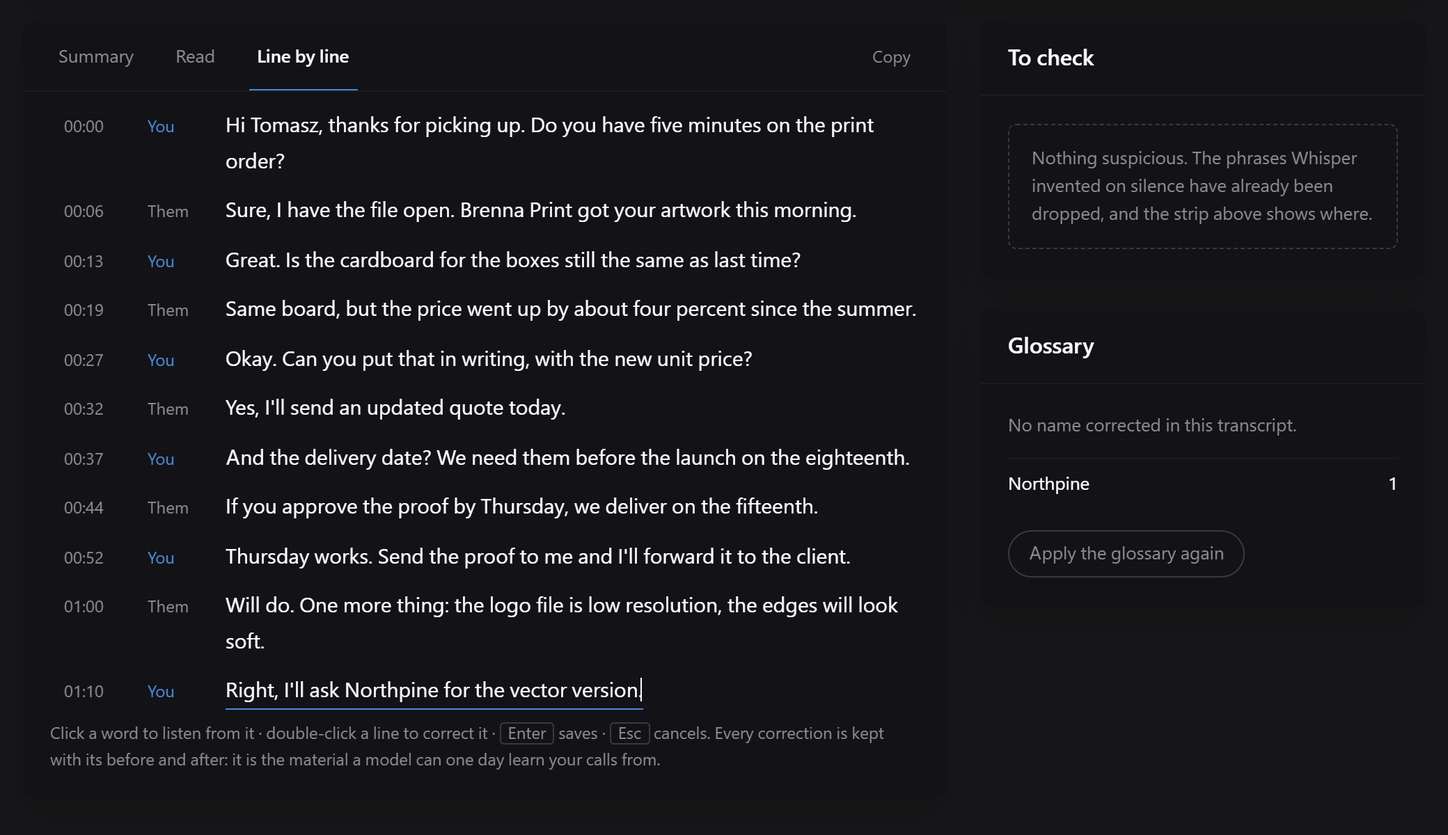
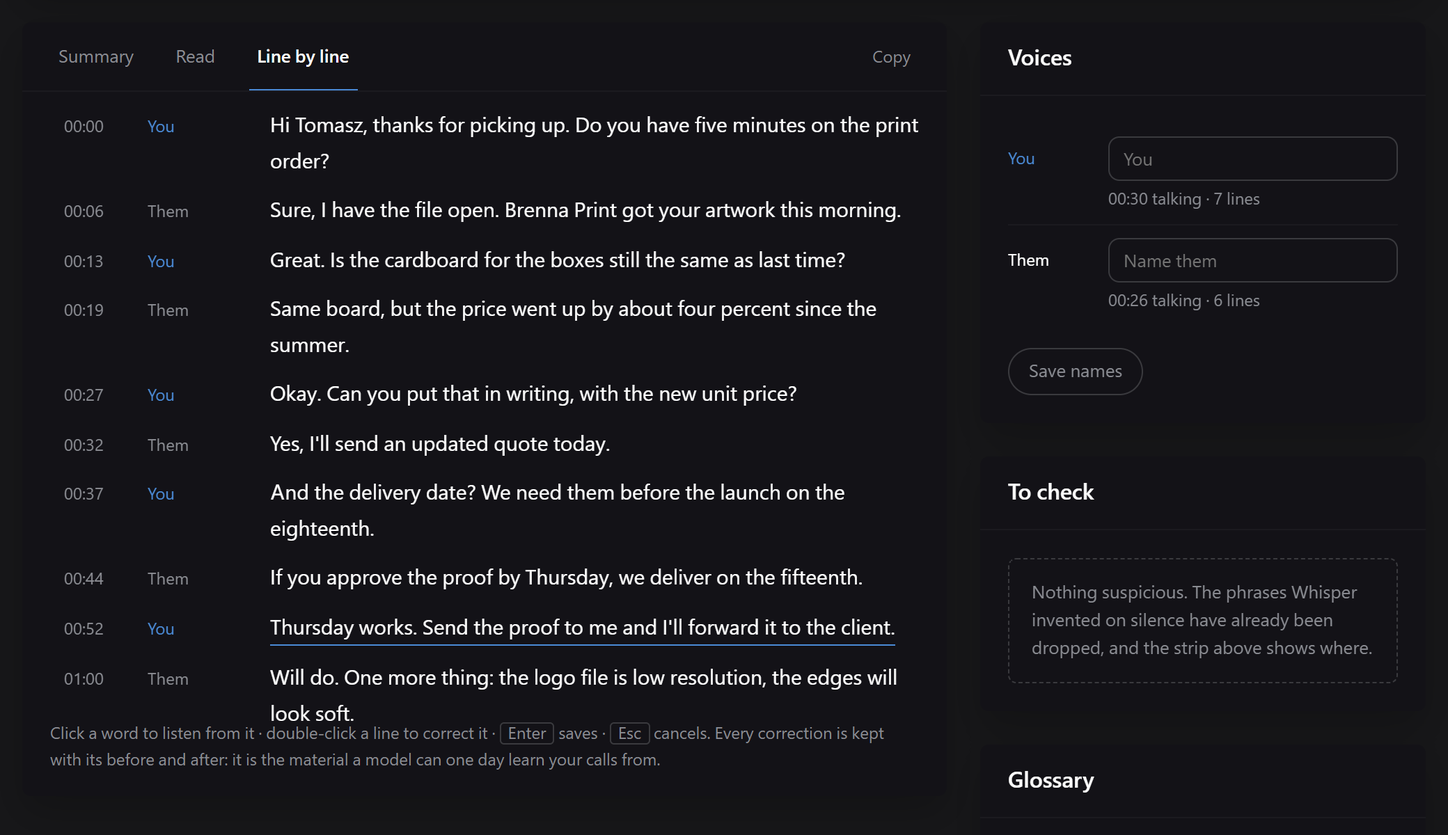
Clearer choices before transcribing, and the Voices panel first
The home screen had two small checkboxes in a corner, explained only in a
tooltip, and it wasn't clear they also applied to recording. They're now
a "Before you start" panel above files and recording: language, Separate
voices and Precise word timings, each with a switch and a line saying
what it does.

On a call, separating the voices of a call already transcribed sat at the
bottom of the right column, out of view. The Voices panel now comes
first, with a Separate voices button (the same name as the option,
instead of "Tell the voices apart"), how long it will take, and a
progress bar while it listens.

The README screenshots and the demo GIF are redone on the new layout.

diff --git a/app/index.html b/app/index.html
@@ -161,10 +161,31 @@
     stroke-linecap:round;stroke-linejoin:round}
   select.secondary{background:var(--surface);padding:0 12px}
   select.secondary option{background:var(--surface);color:var(--text)}
-  .toggle{display:flex;align-items:center;gap:8px;color:var(--muted);font-size:var(--fs-small);
-    cursor:pointer;height:var(--control-h);white-space:nowrap}
-  .toggle input{accent-color:var(--accent);width:15px;height:15px;margin:0}
-  .toggle:hover{color:var(--text)}
+  /* The choices made before transcribing: one tile each, with what it does
+     written on it. A bare checkbox with its explanation in a tooltip is a
+     choice nobody understands, and nobody hovers to find out. */
+  .options{display:grid;grid-template-columns:repeat(auto-fit,minmax(220px,1fr));gap:12px}
+  .option{display:flex;gap:14px;align-items:flex-start;padding:14px 16px;border-radius:8px;
+    background:var(--raised);border:1px solid transparent;cursor:pointer;min-width:0}
+  .option:hover{border-color:var(--control)}
+  .option.on{border-color:var(--accent)}
+  .option div{min-width:0;flex:1}
+  .option b{display:block;font-weight:500;font-size:14px;margin-bottom:3px}
+  .option small{display:block;color:var(--muted);font-size:var(--fs-small);line-height:1.5}
+  .option.language{cursor:default}
+  .option.language:hover{border-color:transparent}
+  .option select{width:100%;margin-top:8px}
+  .switch{appearance:none;-webkit-appearance:none;flex:none;width:34px;height:20px;margin:1px 0 0;
+    border-radius:999px;background:var(--control);position:relative;cursor:pointer;
+    transition:background .15s}
+  .switch::after{content:"";position:absolute;top:3px;left:3px;width:14px;height:14px;
+    border-radius:50%;background:var(--text);transition:transform .15s}
+  .switch:checked{background:var(--accent)}
+  .switch:checked::after{transform:translateX(14px)}
+  .switch:focus-visible{outline:2px solid var(--accent);outline-offset:2px}
+  .voices-cta .primary{margin-top:14px}
+  .voices-cta .bar{margin-top:14px}
+  .voices-cta .rec-note{margin-top:8px}
   .text-button{color:var(--muted);text-decoration:none}
   .text-button:hover{color:var(--text)}
   .text-button.danger:hover{color:var(--negative)}
@@ -428,6 +449,7 @@
 
   @media (prefers-reduced-motion:reduce){
     .bar.indeterminate i{animation:none;width:100%;opacity:.35}
+    .switch,.switch::after{transition:none}
     .bar i,.meter .track i{transition:none}
     .sidebar{transition:none}
     .live .dot{animation:none}
@@ -535,7 +557,11 @@ async function checkEngine(){
     voicesAvail = !!d.voices;
     voicesReady = !!d.voices_ready;
     const vt = $('#voices-toggle');
-    if (vt) vt.hidden = !voicesAvail;
+    if (vt){
+      vt.hidden = !voicesAvail;
+      if (voicesReady) vt.querySelector('small').textContent = vt.querySelector('small')
+        .textContent.replace('; the first time it downloads 32 MB.', '.');
+    }
     if (d.error){ light.className = 'light no'; t.textContent = d.error; return; }
     // Started with --no-model: reading old calls, nothing to transcribe with.
     if (d.off){
@@ -690,36 +716,55 @@ function languagePicker(){
   return s;
 }
 
-// Precise word timings cost twice the time (measured: 395 s instead of 200
-// on a 27-minute call), so they are a choice, remembered, and never a default.
-function preciseToggle(){
-  const l = el('label', 'toggle');
-  l.title = 'Every word lands exactly where it was said, so a click plays from that word. '
-    + 'Takes about twice as long: 27 minutes in about 7 instead of 4.';
-  const c = el('input');
+// One tile per choice, with what it does written on it. Remembered, and the
+// same for dropped files and for a recording.
+function optionTile(id, title, text, key){
+  const l = el('label', 'option');
+  l.id = id;
+  const c = el('input', 'switch');
   c.type = 'checkbox';
-  c.checked = precise();
-  c.onchange = () => store.set('sottovoce-precise', c.checked ? '1' : '0');
-  l.append(c, 'Precise word timings');
+  c.setAttribute('role', 'switch');
+  c.checked = store.get(key) === '1';
+  const t = el('div');
+  t.innerHTML = '<b>' + esc(title) + '</b><small>' + esc(text) + '</small>';
+  const mark = () => l.classList.toggle('on', c.checked);
+  c.onchange = () => { store.set(key, c.checked ? '1' : '0'); mark(); };
+  mark();
+  l.append(c, t);
   return l;
 }
 
-// Telling voices apart runs on the processor, about two seconds a minute of
-// audio, and is off unless asked: on a call with two people recorded here,
-// the two tracks already say who is who.
-function voicesToggle(){
-  const l = el('label', 'toggle');
-  l.id = 'voices-toggle';
-  l.hidden = !voicesAvail;
-  l.title = 'Marks who is speaking on every line, by the sound of their voice: '
-    + 'Voice 1, Voice 2… Name them afterwards. Adds about 2 seconds per minute of audio'
-    + (voicesReady ? '.' : '; the first time it downloads two small models (32 MB).');
-  const c = el('input');
-  c.type = 'checkbox';
-  c.checked = store.get('sottovoce-voices') === '1';
-  c.onchange = () => store.set('sottovoce-voices', c.checked ? '1' : '0');
-  l.append(c, 'Separate voices');
-  return l;
+function optionsPanel(){
+  const p = panel('Before you start');
+  const r = el('div', 'right');
+  r.textContent = 'for files and recordings · remembered';
+  p.querySelector('header').append(r);
+  const c = el('div', 'content options');
+
+  const lang = el('div', 'option language');
+  const lt = el('div');
+  lt.innerHTML = '<b>Language</b><small>Leave it on detect, or choose it if the call opens in silence or mixes languages.</small>';
+  lt.append(languagePicker());
+  lang.append(lt);
+
+  // Telling voices apart runs on the processor and is off unless asked: on a
+  // call recorded here with one other person, the two tracks already say who
+  // is who.
+  const v = optionTile('voices-toggle', 'Separate voices',
+    'Every line says who is speaking: Voice 1, Voice 2… Name them afterwards. '
+    + 'About 2 seconds more per minute'
+    + (voicesReady ? '.' : '; the first time it downloads 32 MB.'), 'sottovoce-voices');
+  v.hidden = !voicesAvail;
+
+  // Precise word timings cost twice the time (measured: 395 s instead of 200
+  // on a 27-minute call), so they are a choice, remembered, never a default.
+  const pr = optionTile('precise-toggle', 'Precise word timings',
+    'A click on a word plays from exactly that word. Takes about twice as long: '
+    + '27 minutes in 7 instead of 4.', 'sottovoce-precise');
+
+  c.append(lang, v, pr);
+  p.append(c);
+  return p;
 }
 
 function crumbs(here){
@@ -761,10 +806,9 @@ function showHome(){
   fd.textContent = 'Drop recordings you already have, or record a call as it happens. '
     + 'Everything is transcribed on this machine.';
   left.append(h1, fd);
-  const act = el('div', 'actions');
-  act.append(voicesToggle(), preciseToggle(), languagePicker());
-  tr.append(left, act);
+  tr.append(left);
   d.append(tr);
+  d.append(optionsPanel());
 
   const unfinished = el('div');
   unfinished.id = 'home-unfinished';
@@ -855,7 +899,8 @@ function drawRecordIdle(c){
   foot.append(b);
   const note = el('p', 'rec-note');
   note.textContent = 'Your microphone and the call are saved on two separate tracks, so '
-    + 'the transcript says who spoke. Use headphones, and tell the others you are recording.';
+    + 'the transcript says You and Them. With Separate voices on, the people on the call '
+    + 'are told apart too. Use headphones, and tell the others you are recording.';
   c.append(ol, f, foot, note);
 }
 
@@ -1573,30 +1618,62 @@ function voicesPanel(l){
   }
   // Calls transcribed without it: the voices can be told apart now, from the
   // recording in the folder, without transcribing again.
-  if (voicesAvail && l.audio && !speakers.some(x => x.tag.startsWith('Voice '))){
+  const split = speakers.some(x => x.tag.startsWith('Voice '));
+  if (voicesAvail && l.audio && !split){
+    const box = el('div', 'voices-cta');
     const v = el('p', 'note');
-    v.textContent = l.speakers_found === 1
-      ? 'Only one voice was heard' + (l.two_tracks ? ' on the call.' : ' in this call.')
-      : l.two_tracks ? 'Several people on the call? They can be told apart by their voice.'
-                     : 'Who is speaking is not marked in this call.';
-    const b = el('button', 'secondary foot-action');
-    b.type = 'button';
-    b.textContent = 'Tell the voices apart';
-    b.onclick = async () => {
-      b.disabled = true;
-      // About two seconds a minute, measured; said, so a minute of waiting
-      // does not look like a page that hung.
-      b.textContent = 'listening… about ' + mmss(Math.max(5, l.duration / 30));
-      try{
-        const r = await (await fetch('/api/voices/' + encodeURIComponent(l.folder), {method:'POST'})).json();
-        if (r.error) throw new Error(r.error);
-        voicesReady = true;
-        if (!r.changed){ b.textContent = 'Only one voice heard'; return; }
-        await loadCalls();
-        openCall(l.folder);
-      } catch(err){ b.textContent = err.message; }
-    };
-    c.append(v, b);
+    // About 2.5 seconds a minute of audio, measured; said up front, so a
+    // minute of waiting does not look like a page that hung.
+    const secs = Math.max(5, Math.round(l.duration / 24));
+    const wait = secs < 60 ? Math.ceil(secs / 5) * 5 + ' seconds'
+                           : plural(Math.round(secs / 60), 'minute', 'minutes');
+    if (l.speakers_found === 1){
+      v.textContent = l.two_tracks ? 'Only one voice was heard on the call side.'
+                                   : 'Only one voice was heard in this call.';
+      box.append(v);
+    } else {
+      v.textContent = l.two_tracks
+        ? 'More than one person on the call? Separate their voices to tell them apart, '
+          + 'instead of one Them.'
+        : 'Who is speaking is not marked yet. Separate the voices to see Voice 1, Voice 2… '
+          + 'on every line, then give them names.';
+      const b = el('button', speakers.length ? 'secondary' : 'primary');
+      b.type = 'button';
+      b.textContent = 'Separate voices';
+      const hint = el('p', 'rec-note');
+      hint.textContent = 'Listens to the recording again, without transcribing it again: about '
+        + wait + (voicesReady ? '.' : ', plus a 32 MB download the first time.');
+      b.onclick = async () => {
+        b.disabled = true;
+        b.textContent = 'Listening for voices…';
+        const bar = el('div', 'bar indeterminate');
+        bar.append(el('i'));
+        b.after(bar);
+        try{
+          const r = await (await fetch('/api/voices/' + encodeURIComponent(l.folder), {method:'POST'})).json();
+          if (r.error) throw new Error(r.error);
+          voicesReady = true;
+          bar.remove();
+          if (!r.changed){
+            b.remove();
+            hint.remove();
+            v.textContent = 'Only one voice was heard' + (l.two_tracks ? ' on the call side' : '')
+              + ', so nothing changed.';
+            return;
+          }
+          await loadCalls();
+          openCall(l.folder);
+        } catch(err){
+          bar.remove();
+          b.disabled = false;
+          b.textContent = 'Separate voices';
+          hint.textContent = err.message;
+          hint.classList.add('error');
+        }
+      };
+      box.append(v, b, hint);
+    }
+    c.append(box);
   }
   if (!c.children.length) return null;
   p.append(c);
@@ -1605,8 +1682,10 @@ function voicesPanel(l){
 
 function sidePanel(l, st){
   const col = el('div', 'side');
+  // Who is speaking comes first: it changes how everything below is read,
+  // and the action that marks it must be seen without scrolling.
   const vp = voicesPanel(l);
-  if (vp && (l.speakers || []).length) col.append(vp);
+  if (vp) col.append(vp);
 
   const p = panel('To check');
   const n = (l.suspicious || []).length;
@@ -1692,7 +1771,6 @@ function sidePanel(l, st){
   gc.append(b);
   g.append(gc);
   col.append(g);
-  if (vp && !(l.speakers || []).length) col.append(vp);
   return col;
 }
 

diff --git a/tests/test_page.py b/tests/test_page.py
@@ -70,6 +70,21 @@ def open_call(p, name):
     p.wait_for_selector(".reader")
 
 
+def test_the_choices_before_transcribing_are_explained_and_remembered(page):
+    tiles = page.locator(".options .option")
+    assert tiles.count() == 3
+    assert "Voice 1" in page.locator("#voices-toggle").inner_text()
+    page.locator("#precise-toggle").click()
+    assert "on" in page.locator("#precise-toggle").get_attribute("class")
+    page.reload()
+    assert page.locator("#precise-toggle input").is_checked()
+
+
+def test_the_voices_panel_comes_first_on_a_call(page):
+    open_call(page, NORTHPINE)
+    assert page.locator(".side .panel h2").first.inner_text() == "Voices"
+
+
 def test_the_page_opens_on_a_new_transcription_not_on_a_call(page):
     assert page.locator("h1").inner_text() == "New transcription"
     assert page.locator("#drop").is_visible()

diff --git a/README.it.md b/README.it.md
@@ -10,7 +10,7 @@
 
 Creato da [TouchSite Software](https://www.touchsitesoftware.it).
 
-![Ventiquattro secondi di Sottovoce su call inventate: la schermata iniziale e l'interruttore Separate voices, il riassunto di una call, un clic sulla striscia della call che porta a quel punto del testo, la vista riga per riga con tre voci in tre colori, i nomi Maya, Daniel e Priya dati nel pannello Voices, le righe che ora mostrano i nomi, una call registrata su due tracce con You e Them, e il ritorno all'inizio](docs/images/demo.gif)
+![Ventiquattro secondi di Sottovoce su call inventate: l'interruttore Separate voices acceso nella schermata iniziale, il riassunto di una call, un clic sulla striscia della call che porta a quel punto del testo, la vista riga per riga con tre voci in tre colori, i nomi Maya, Daniel e Priya dati nel pannello Voices, le righe che ora mostrano i nomi, una call registrata su due tracce con You e Them, e il ritorno all'inizio](docs/images/demo.gif)
 <sub>Call inventate, prese da `examples/`: in queste immagini non c'è nessun dato reale di clienti. La GIF è fatta con `--no-model`: per questo la trascrizione risulta spenta.</sub>
 
 > L'interfaccia è in inglese. La trascrizione e il riassunto seguono la lingua della call: un file in italiano esce in italiano.
@@ -43,7 +43,7 @@ Sottovoce risolve i primi due, e per il terzo ti mostra dove guardare.
 - **Riassunti col tuo LLM.** Se è acceso LM Studio, Ollama o llama-server ottieni *Deciso / Da fare / Aperto*, nella lingua della call. Se non c'è nessuno acceso, il bottone semplicemente non compare.
 - **Niente esce dalla macchina, e niente è nascosto.** Il server ascolta solo su `127.0.0.1`. La pagina non carica niente da internet, nemmeno il carattere. Ogni call è una cartella di file normali: niente database, niente account, niente telemetria.
 
-![La correzione a mano di una riga nella vista riga per riga, accanto alle frasi da controllare e ai nomi trovati nella call](docs/images/correcting.png)
+![La correzione a mano di una riga nella vista riga per riga di una call su due tracce, con You e Them su ogni riga, accanto al pannello Voices dove si possono nominare e alle frasi da controllare](docs/images/correcting.png)
 
 ## Avvio rapido (Windows)
 
@@ -58,9 +58,9 @@ Start.bat
 
 `Install.bat` crea l'ambiente virtuale e installa PyTorch con CUDA **prima** di tutto il resto (vedi [la trappola di PyTorch](#la-trappola-di-pytorch)), e alla fine ti dice se vede la GPU. `Start.bat` apre <http://127.0.0.1:8200>. Al primo avvio scarica il modello (2,9 GB, una volta sola) e lo carica nella VRAM in una ventina di secondi.
 
-![La schermata New transcription: a sinistra si trascinano i file, a destra si registra una call, sotto le ultime call](docs/images/home.png)
+![La schermata New transcription: in alto le scelte che valgono per tutto (lingua, Separate voices, Precise word timings), a sinistra si trascinano i file, a destra si registra una call, sotto le ultime call](docs/images/home.png)
 
-La pagina si apre su **New transcription**: a sinistra trascini uno o più file, a destra registri una call. 27 minuti di call richiedono circa 4 minuti. La lingua viene riconosciuta, oppure la scegli dal menu, e la scelta viene ricordata. Il server si spegne col bottone di accensione, oppure con `Stop.bat`.
+La pagina si apre su **New transcription**: a sinistra trascini uno o più file, a destra registri una call. 27 minuti di call richiedono circa 4 minuti. Sopra a tutti e due, **Before you start** raccoglie le tre scelte che valgono per entrambi: la lingua (riconosciuta, o scelta dal menu), **Separate voices** e **Precise word timings**, ognuna con una riga che dice cosa fa. Vengono ricordate. Il server si spegne col bottone di accensione, oppure con `Stop.bat`.
 
 **Linux e macOS:** `./install.sh`, poi `./start.sh`. Fanno quello che fanno i lanciatori per Windows: prima PyTorch, dall'indice CUDA su Linux se c'è `nvidia-smi`, poi il resto, e alla fine ti dicono se la GPU si vede. `./start.sh` passa i suoi argomenti al server, quindi `./start.sh --no-model` funziona. Su GitHub vengono controllati a ogni push, la sintassi e `shellcheck`, ma lì non vengono eseguiti davvero: l'installazione scarica gigabyte e richiede una GPU. Se li provi su una macchina pulita, facci sapere com'è andata (vedi i [prossimi passi](ROADMAP.md)). Se non funzionano, questi sono i passi che fanno:
 
@@ -97,7 +97,7 @@ In **New transcription** dai un nome alla call e premi **Start recording**. Il b
 
 ## Separare le voci
 
-In una call con più persone, spunta **Separate voices** prima di trascrivere, oppure apri una call già trascritta e premi **Tell the voices apart** (non serve ritrascriverla). Ogni riga prende *Voice 1*, *Voice 2*…, numerate nell'ordine in cui parlano la prima volta. Dai loro un nome nel pannello **Voices** accanto alla trascrizione: i nomi compaiono nelle tre viste, in quello che copi, in ogni download e nel riassunto. Il `.txt` tiene le etichette e `info.json` tiene i nomi, quindi un nome sbagliato si corregge cambiando un campo.
+In una call con più persone, spunta **Separate voices** prima di trascrivere, oppure apri una call già trascritta e premi **Separate voices** in cima alla colonna di destra (non serve ritrascriverla). Ogni riga prende *Voice 1*, *Voice 2*…, numerate nell'ordine in cui parlano la prima volta. Dai loro un nome nel pannello **Voices** accanto alla trascrizione: i nomi compaiono nelle tre viste, in quello che copi, in ogni download e nel riassunto. Il `.txt` tiene le etichette e `info.json` tiene i nomi, quindi un nome sbagliato si corregge cambiando un campo.
 
 - **Niente account, niente cancello.** La scelta di solito è [pyannote](https://github.com/pyannote/pyannote-audio), che prima di scaricare chiede un token di Hugging Face e di accettarne le condizioni. Sottovoce usa lo stesso modello di segmentazione, pyannote segmentation-3.0 (MIT), nella versione ridistribuita da [sherpa-onnx](https://github.com/k2-fsa/sherpa-onnx), insieme a un modello di impronte vocali [3D-Speaker](https://github.com/modelscope/3D-Speaker) ERes2Net (Apache-2.0). Arrivano tutti e due da GitHub al primo uso, 32 MB in tutto, e prima di usarli se ne controlla lo SHA-256.
 - **Sul processore.** Circa 2,5 secondi per minuto di audio. La GPU resta a Whisper.

diff --git a/README.md b/README.md
@@ -10,7 +10,7 @@
 
 Built by [TouchSite Software](https://www.touchsitesoftware.it).
 
-![A 24-second tour of Sottovoce on fictional calls: the home screen and the Separate voices switch, a call's summary, a click on the call strip that jumps to that moment in the text, the line-by-line view with three voices in three colours, naming them Maya, Daniel and Priya in the Voices panel, the lines now showing the names, a call recorded on two tracks with You and Them, and back to the start](docs/images/demo.gif)
+![A 24-second tour of Sottovoce on fictional calls: switching on Separate voices on the home screen, a call's summary, a click on the call strip that jumps to that moment in the text, the line-by-line view with three voices in three colours, naming them Maya, Daniel and Priya in the Voices panel, the lines now showing the names, a call recorded on two tracks with You and Them, and back to the start](docs/images/demo.gif)
 <sub>Fictional calls from `examples/`: nothing in these images is real client data. Made with `--no-model`, which is why transcription shows as off.</sub>
 
 ## Why
@@ -41,7 +41,7 @@ Sottovoce fixes the first two, and shows you where the third one is.
 - **Summaries from your own LLM.** If LM Studio, Ollama or llama-server is running, you get *Decided / To do / Open*, in the language of the call. If none is running, the button just isn't there.
 - **Nothing leaves the machine, and nothing is hidden.** The server listens on `127.0.0.1`. The page loads nothing from the internet, not even its font. Every call is a folder of plain files: no database, no account, no telemetry.
 
-![Correcting a line by hand in the line-by-line view, next to the phrases to check and the names found in the call](docs/images/correcting.png)
+![Correcting a line by hand in the line-by-line view of a two-track call, with You and Them on every line, next to the Voices panel where they can be named and the phrases to check](docs/images/correcting.png)
 
 ## Quick start (Windows)
 
@@ -56,9 +56,9 @@ Start.bat
 
 `Install.bat` creates a virtual environment and installs PyTorch with CUDA **before** everything else (see [the PyTorch trap](#the-pytorch-trap)). At the end it prints whether it sees your GPU. `Start.bat` opens <http://127.0.0.1:8200>. The first start downloads the model (2.9 GB, once) and loads it into VRAM in about twenty seconds.
 
-![The New transcription screen: drop files on the left, record a call on the right, the latest calls below](docs/images/home.png)
+![The New transcription screen: the choices that apply to everything at the top (language, Separate voices, Precise word timings), drop files on the left, record a call on the right, the latest calls below](docs/images/home.png)
 
-The page opens on **New transcription**: drop one or more files on the left, or record a call on the right. 27 minutes of call take about 4 minutes. The language is detected, or you pick it from the menu; the choice is remembered. Close the server with the power button, or `Stop.bat`.
+The page opens on **New transcription**: drop one or more files on the left, or record a call on the right. 27 minutes of call take about 4 minutes. Above both, **Before you start** holds the three choices that apply to either: the language (detected, or picked from the menu), **Separate voices** and **Precise word timings**, each with a line saying what it does. They're remembered. Close the server with the power button, or `Stop.bat`.
 
 **Linux and macOS:** `./install.sh`, then `./start.sh`. They do what the Windows launchers do: PyTorch first, from the CUDA index on Linux when `nvidia-smi` is there, then the rest, then whether the GPU is seen. `./start.sh` passes its arguments to the server, so `./start.sh --no-model` works. On GitHub they're checked for syntax and with `shellcheck` on every push, but not run end to end there: the install downloads gigabytes and needs a GPU. If you run them on a clean machine, tell us how it went (see the [roadmap](ROADMAP.md)). If they fail, these are the steps they take:
 
@@ -95,7 +95,7 @@ On **New transcription**, give the call a name and press **Start recording**. Th
 
 ## Tell voices apart
 
-On a call with several people, tick **Separate voices** before transcribing, or open a call that's already transcribed and press **Tell the voices apart** (no need to transcribe again). Every line gets *Voice 1*, *Voice 2*…, numbered in the order they first speak. Name them in the **Voices** panel next to the transcript: the names appear in the three reading views, in what you copy, in every download and in the summary. The `.txt` keeps the labels and `info.json` keeps the names, so a wrong name is undone by changing one field.
+On a call with several people, tick **Separate voices** before transcribing, or open a call that's already transcribed and press **Separate voices** at the top of its right column (no need to transcribe again). Every line gets *Voice 1*, *Voice 2*…, numbered in the order they first speak. Name them in the **Voices** panel next to the transcript: the names appear in the three reading views, in what you copy, in every download and in the summary. The `.txt` keeps the labels and `info.json` keeps the names, so a wrong name is undone by changing one field.
 
 - **No account, no gate.** The usual choice, [pyannote](https://github.com/pyannote/pyannote-audio), asks for a Hugging Face token and for accepting its terms before it downloads anything. Sottovoce uses the same segmentation model, pyannote segmentation-3.0 (MIT), as redistributed by [sherpa-onnx](https://github.com/k2-fsa/sherpa-onnx), with a [3D-Speaker](https://github.com/modelscope/3D-Speaker) ERes2Net voice-fingerprint model (Apache-2.0). Both come from GitHub on first use, 32 MB in all, and are checked against a fixed SHA-256 before they're used.
 - **On the CPU.** About 2.5 seconds per minute of audio. The GPU stays with Whisper.

diff --git a/CHANGELOG.md b/CHANGELOG.md
@@ -4,6 +4,11 @@ What changed in each release, newest first. The format follows [Keep a Changelog
 
 ## [Unreleased]
 
+### Changed
+
+- The choices made before transcribing (language, **Separate voices**, **Precise word timings**) are now a **Before you start** panel above files and recording, each with a switch and a line saying what it does, instead of two small checkboxes whose explanation was only in a tooltip.
+- On a call, the **Voices** panel comes first in the right column, so separating the voices of a call already transcribed is in view, with a progress bar while it listens. The button is called **Separate voices**, like the option, instead of *Tell the voices apart*.
+
 ## [1.2.0] - 2026-10-22
 
 Tell the voices apart, on any recording, with no account to create.

diff --git a/ROADMAP.md b/ROADMAP.md
@@ -52,7 +52,7 @@ And a rule learned the hard way, on another project: **never decide on a single 
 
 **Tried, not good enough.** Over-splitting and then merging the closest groups down to the given number scored 27-34% error on AMI, against 12% for counting on its own. So it isn't offered. pyannote's way is to constrain the grouping itself, not to merge after it.
 
-**Done when** giving the right number never scores worse than counting, on both AMI meetings, and the page offers it next to **Tell the voices apart**.
+**Done when** giving the right number never scores worse than counting, on both AMI meetings, and the page offers it next to **Separate voices**.
 
 ## 5. Recognise the same person across calls
 
